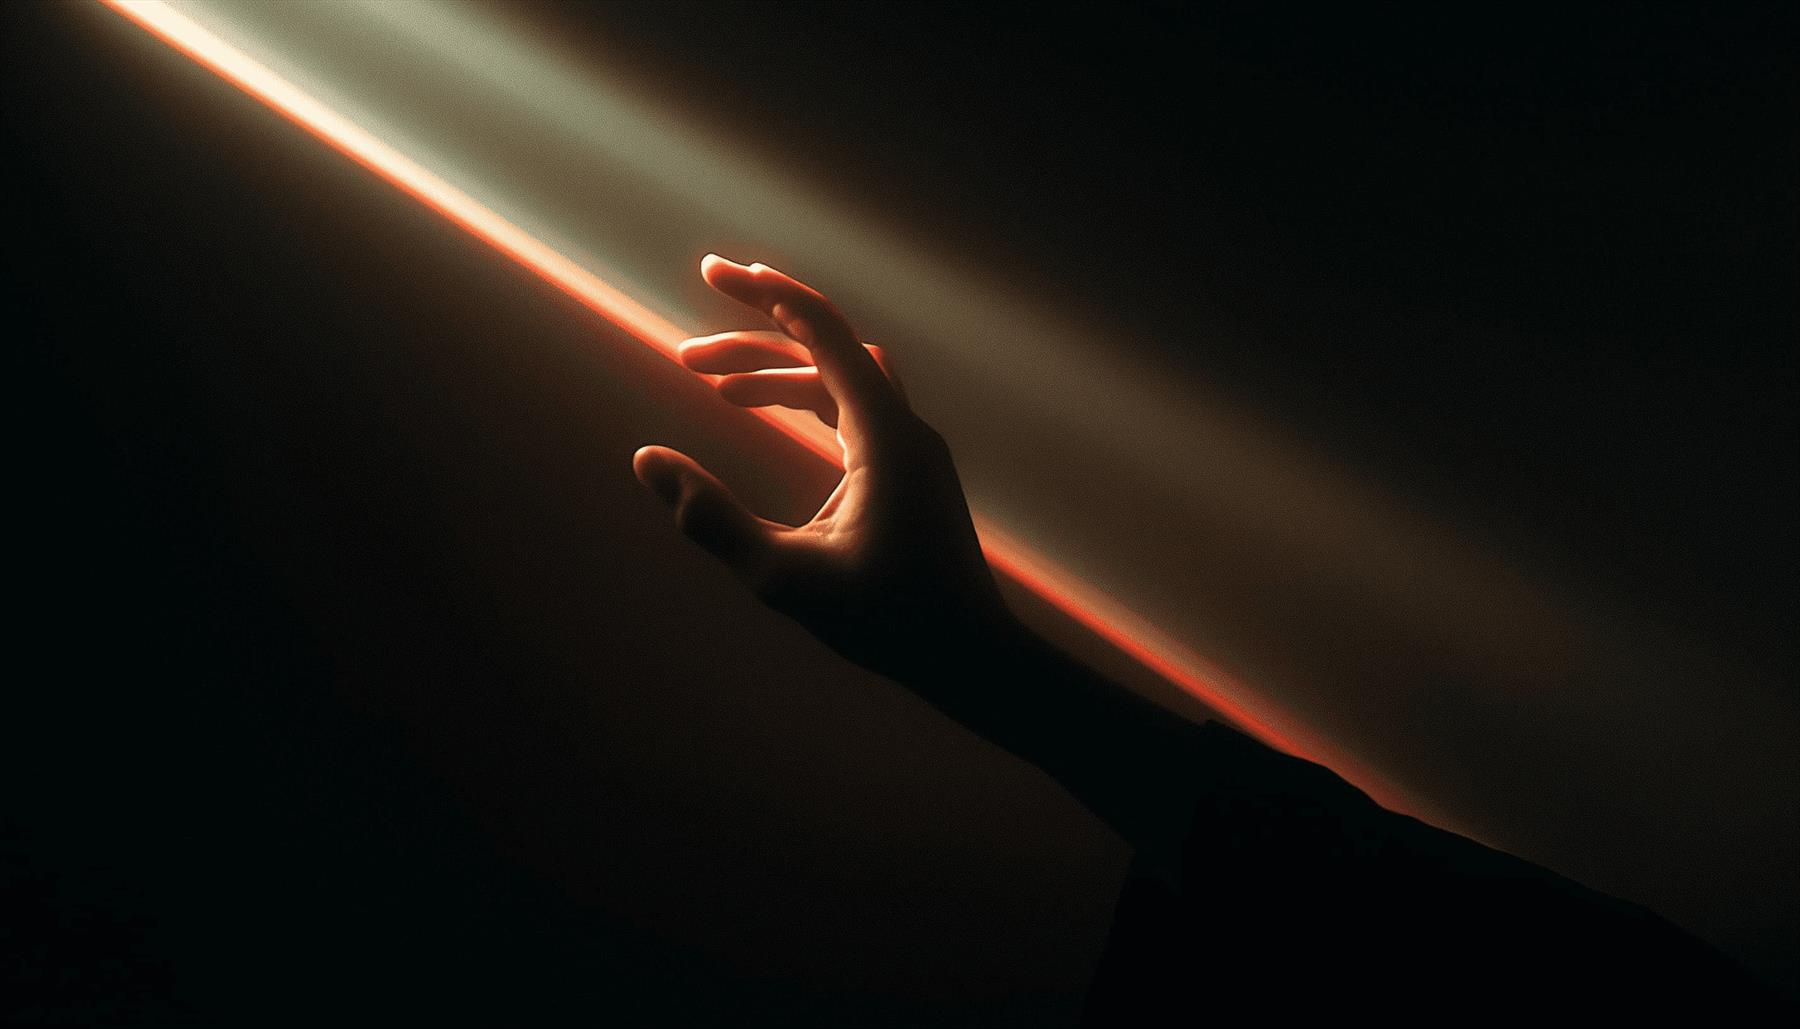
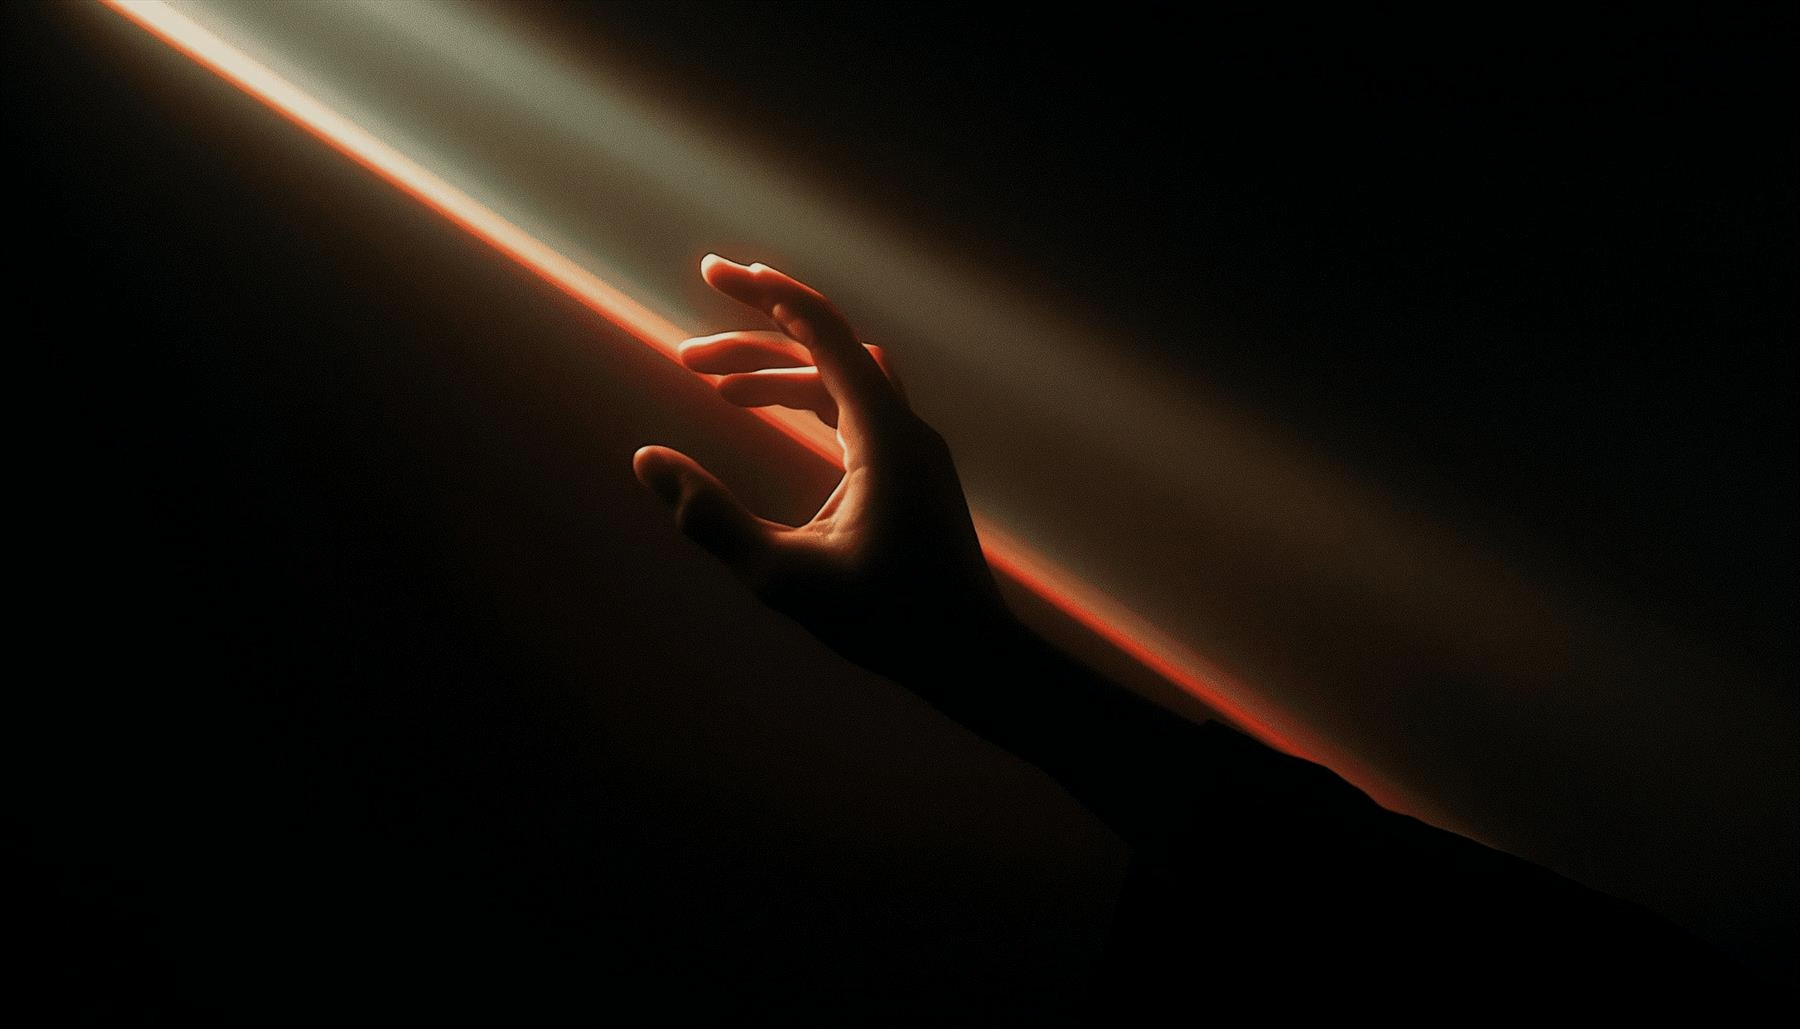
fix(carrossel): remove snap mobile que voltava pro hero + queima filtro que travava scroll
Dois bugs distintos no carrossel mobile:

1. O snap por card era incompativel com o ScrollSmoother: calculava o
   destino certo mas, ao escrever a posicao pelo proxy do smoother e
   reler pra checar interrupcao do usuario, escrita e leitura
   discordavam no touch (proxy em passthrough) e o GSAP resolvia
   escrevendo scrollTo(0,0) -- o carrossel voltava pro topo sozinho ao
   soltar o dedo no meio da rolagem. Removido; a runway de saida
   (EXIT_RUNWAY_VH) ja cobre o motivo original do snap.

2. Tres fotos com filter: CSS (brightness/contrast/saturate) dentro do
   track com will-change:transform faziam a GPU recalcular o filtro a
   cada frame de movimento -- pior frame medido em 288ms. Filtro
   queimado direto nos arquivos (visual identico, diff medio de pixel
   0.4-0.7/255, confirmado contra o original via canvas); CSS agora so
   documenta a origem do tratamento de cor.

Changed region(s): [[0.0622, 0.0, 0.4978, 0.5287], [0.3733, 0.2488, 0.4356, 0.2799], [0.5289, 0.5287, 0.56, 0.5598]]

diff --git a/src/LandingPages.jsx b/src/LandingPages.jsx
@@ -371,25 +371,29 @@ function LandingPages() {
           start: "center center",
           end: `+=${endDist}`,
           scrub: isMobile ? 1 : 0.6,
-          // Snap por card no touch: o flick "aterrissa" no card mais próximo.
-          // Pontos reescalados pelas pistas de entrada/saída.
-          snap: isMobile
-            ? {
-                snapTo: [
-                  0,
-                  ...Array.from(
-                    { length: cardCount },
-                    (_, i) => (settleDist + (i / (cardCount - 1)) * scrollDist) / endDist
-                  ),
-                  1,
-                ],
-                duration: { min: 0.25, max: 0.6 },
-                ease: "power2.out",
-                // Assenta só no SENTIDO do movimento: descendo, a pista flui pro
-                // fim (Bridge) — nunca puxa de volta pro último card (yank).
-                directional: true,
-              }
-            : undefined,
+          // 🔴 SEM `snap` no mobile — removido em 2026-08-16 depois de medido.
+          //
+          // O snap por card existia aqui e era INCOMPATIVEL com o ScrollSmoother
+          // (adotado em 2026-08-08). Sintoma: parar o dedo no meio do carrossel
+          // e, ~500ms depois, o scroll voltar sozinho pro topo da pagina.
+          //
+          // O calculo do snap estava certo — ele criava o tween mirando o card
+          // seguinte. O que quebrava era a EXECUCAO: o tween move o scroll pelo
+          // proxy do ScrollSmoother e depois rele essa posicao pra detectar se o
+          // usuario interveio (_interruptionTracker no ScrollTrigger). No touch o
+          // smoother roda em passthrough (`smoothTouch:false`), entao a escrita
+          // (window.scrollTo nativo) e a leitura (-currentY do smoother) andam em
+          // ticks diferentes, discordam, e o GSAP resolve a discordancia
+          // escrevendo 0 — pro topo. Medido: uma unica chamada scrollTo(0, 0).
+          //
+          // Mesma familia do bug de pin resolvido com `pinType:"fixed"` logo
+          // abaixo: o proxy e a verdade pro ScrollTrigger, mas no touch o scroll
+          // real passa por fora dele. Pro snap nao existe escape hatch — a saida
+          // e nao usar snap. Quem cobria o motivo original (nao passar batido
+          // pela Bridge num flick) e a EXIT_RUNWAY_VH, que continua no lugar.
+          //
+          // Nao reintroduzir sem antes conferir que o snap pousa certo com o
+          // ScrollSmoother ativo.
           pin: section,
           // Mesma razão do pin do Hero (ver App.jsx): no touch o pin por
           // transform é atualizado na main thread enquanto o scroll roda no

diff --git a/src/styles/09-previews.css b/src/styles/09-previews.css
@@ -688,7 +688,9 @@
 
 .lp-preview .roofora-hero__image img {
   object-position: 50% 48%;
-  filter: brightness(0.72) contrast(1.04) saturate(0.95);
+  /* Filtro queimado no arquivo (2026-08-16) — visual identico, sem custo de
+     GPU recalculando a cada frame que a camada se move. Engasgo medido:
+     pior frame caiu de ~288ms pra ~14ms numa passada pelo carrossel mobile. */
 }
 
 .lp-preview .roofora-hero__content {
@@ -966,7 +968,7 @@
 
 .lp-preview .dinevo-hero__media img {
   object-position: 58% 50%;
-  filter: brightness(0.74) saturate(1.08) contrast(1.04);
+  /* Filtro queimado no arquivo (2026-08-16) — ver nota em .roofora-hero__image img. */
 }
 
 .lp-preview .dinevo-hero__shade {
@@ -1143,7 +1145,7 @@
   height: 100%;
   object-fit: cover;
   object-position: 50% 36%;
-  filter: brightness(0.86) saturate(1.06) contrast(1.04);
+  /* Filtro queimado no arquivo (2026-08-16) — ver nota em .roofora-hero__image img. */
 }
 
 .lp-preview .minta-hero__media::after {
